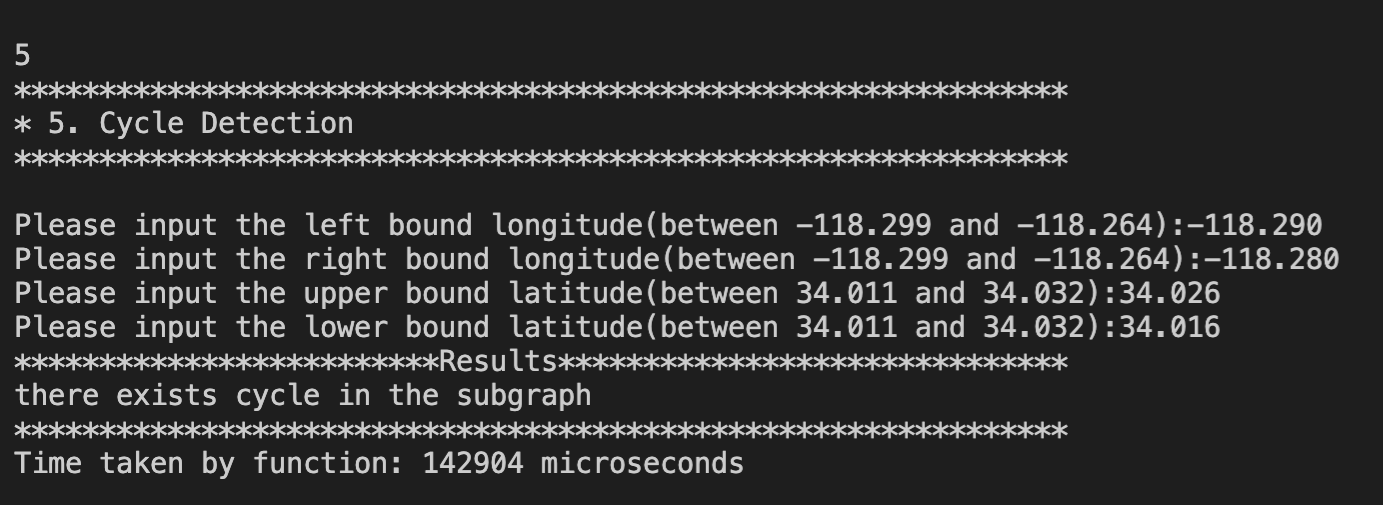
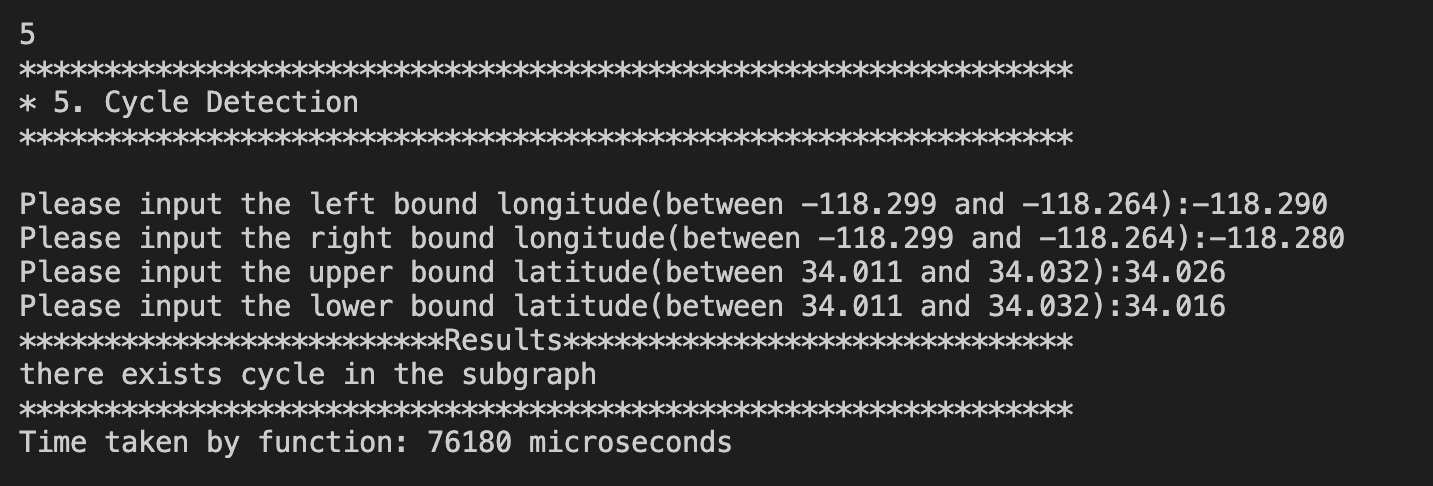
update data

Changed region(s): [[0.0, 0.3704, 0.9949, 0.9568], [0.0, 0.0309, 0.7773, 0.3395]]

diff --git a/tests/trojanmap_test_student.cc b/tests/trojanmap_test_student.cc
@@ -267,7 +267,7 @@ TEST(TrojanMapStudentTest, TSP3) {
 TEST(TrojanMapTest, CycleDetection1) {
   TrojanMap m;
   m.CreateGraphFromCSVFile();
-  std::vector<double> square1 = {-118.299, -118.264, 34.032, 34.011};
+  std::vector<double> square1 = {-118.290, -118.280, 34.026, 34.016};
   bool result1 = m.CycleDetection(square1);
   EXPECT_EQ(result1, true);
 }
@@ -276,7 +276,7 @@ TEST(TrojanMapTest, CycleDetection2) {
   TrojanMap m;
   m.CreateGraphFromCSVFile();
   // Test case 1
-  std::vector<double> square1 = {-118.299, -118.264, 34.032, 34.011};
+  std::vector<double> square1 = {-118.270, -118.265, 34.025, 34.020};
   bool result1 = m.CycleDetection(square1);
   EXPECT_EQ(result1, true);
 }
@@ -285,7 +285,7 @@ TEST(TrojanMapTest, CycleDetection3) {
   TrojanMap m;
   m.CreateGraphFromCSVFile();
   // Test case 1
-  std::vector<double> square1 = {-118.299, -118.264, 34.032, 34.011};
+  std::vector<double> square1 = {-118.280, -118.275, 34.025, 34.023};
   bool result1 = m.CycleDetection(square1);
   EXPECT_EQ(result1, true);
 }

diff --git a/README.md b/README.md
@@ -175,8 +175,6 @@ Given 2 locations A and B, find the best route from A to B.(A is src location an
 
 
 
-
-
 From the table above, we could found that the speed of Dijkstra is exceeded Bellman Ford to great extent. That is because Bellman ford need to iterate each node in the data using DFS to find the graph. However, Dijstra doesn't need to do that. Dijstra using priority_queue to find the shortest distance, it only need to sort the relevant node.
 
 ### Time Complxity
@@ -273,7 +271,7 @@ For a few locations, all the 3 methods can find the optimal result in an accepta
 <p align="center"><img src="report/TSP_6loc.png" alt="Visualization" width="500"/></p>
 
 Case 2: 9 locations
-When the locations become more, the time increase of Brute Force/Backtracking is greater than 2-opt and 3-opt, the time cost by 3-opt is dlightly longer than 2-opt.
+When the locations become more, the time increase of Brute Force/Backtracking is greater than 2-opt and 3-opt, the time cost by 3-opt is slightly longer than 2-opt.
 <p align="center"><img src="report/TSP_9.png" alt="Runtime" width="800"/></p>
 <p align="center"><img src="report/TSP_9loc.png" alt="Visualization" width="500"/></p>
 
